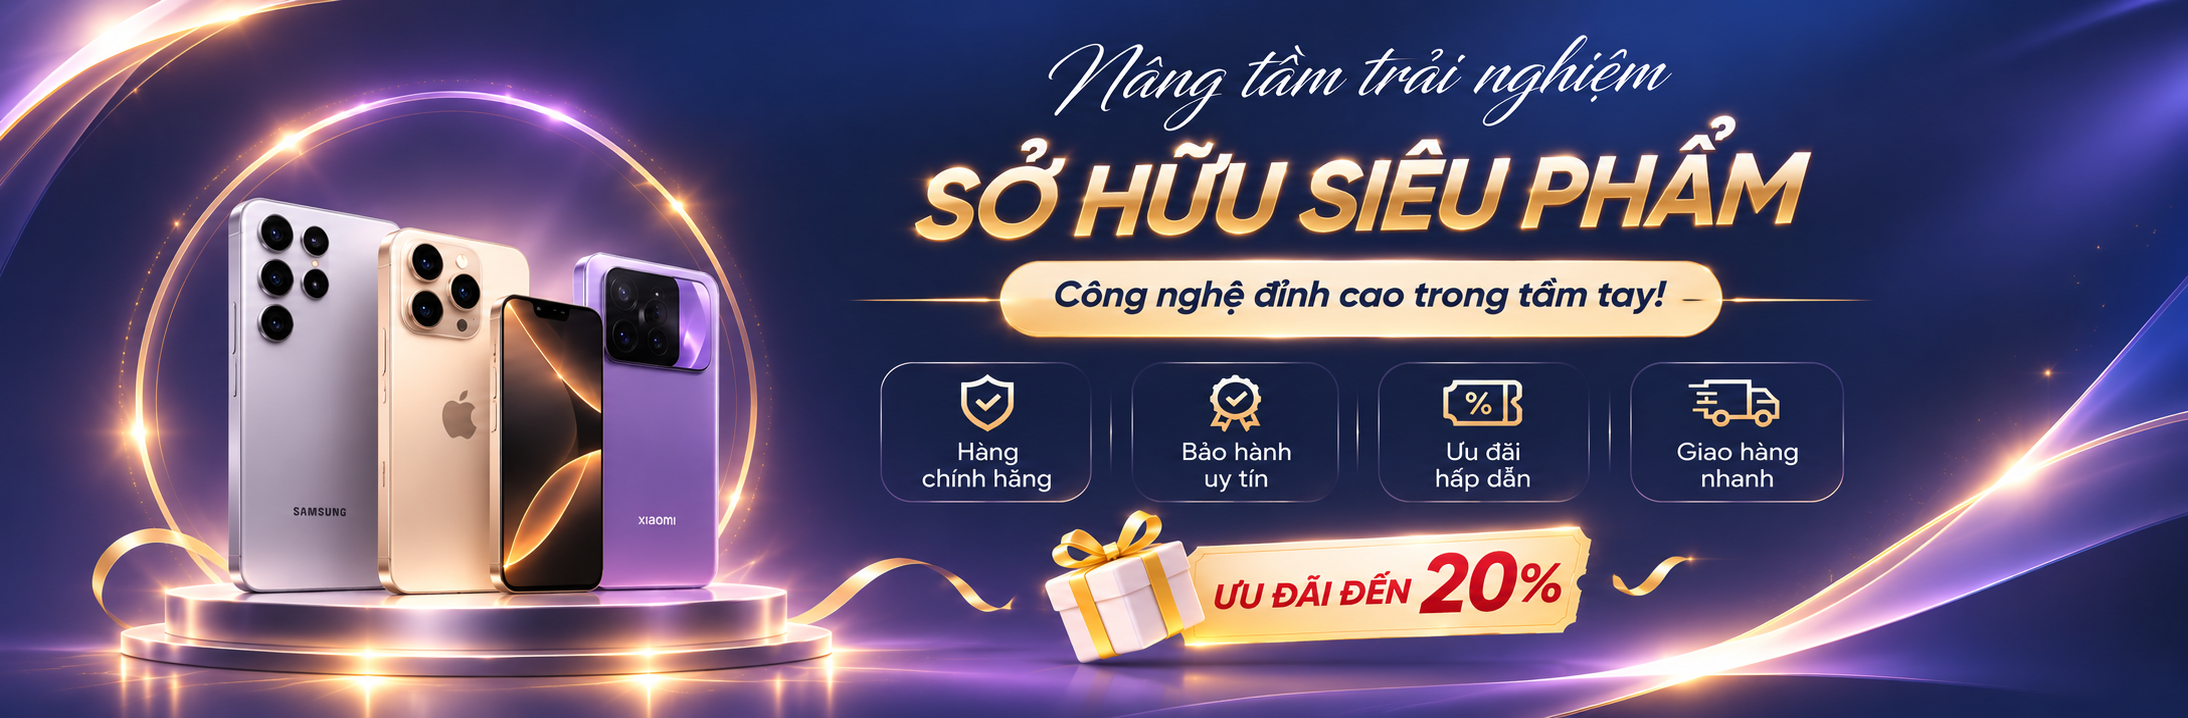
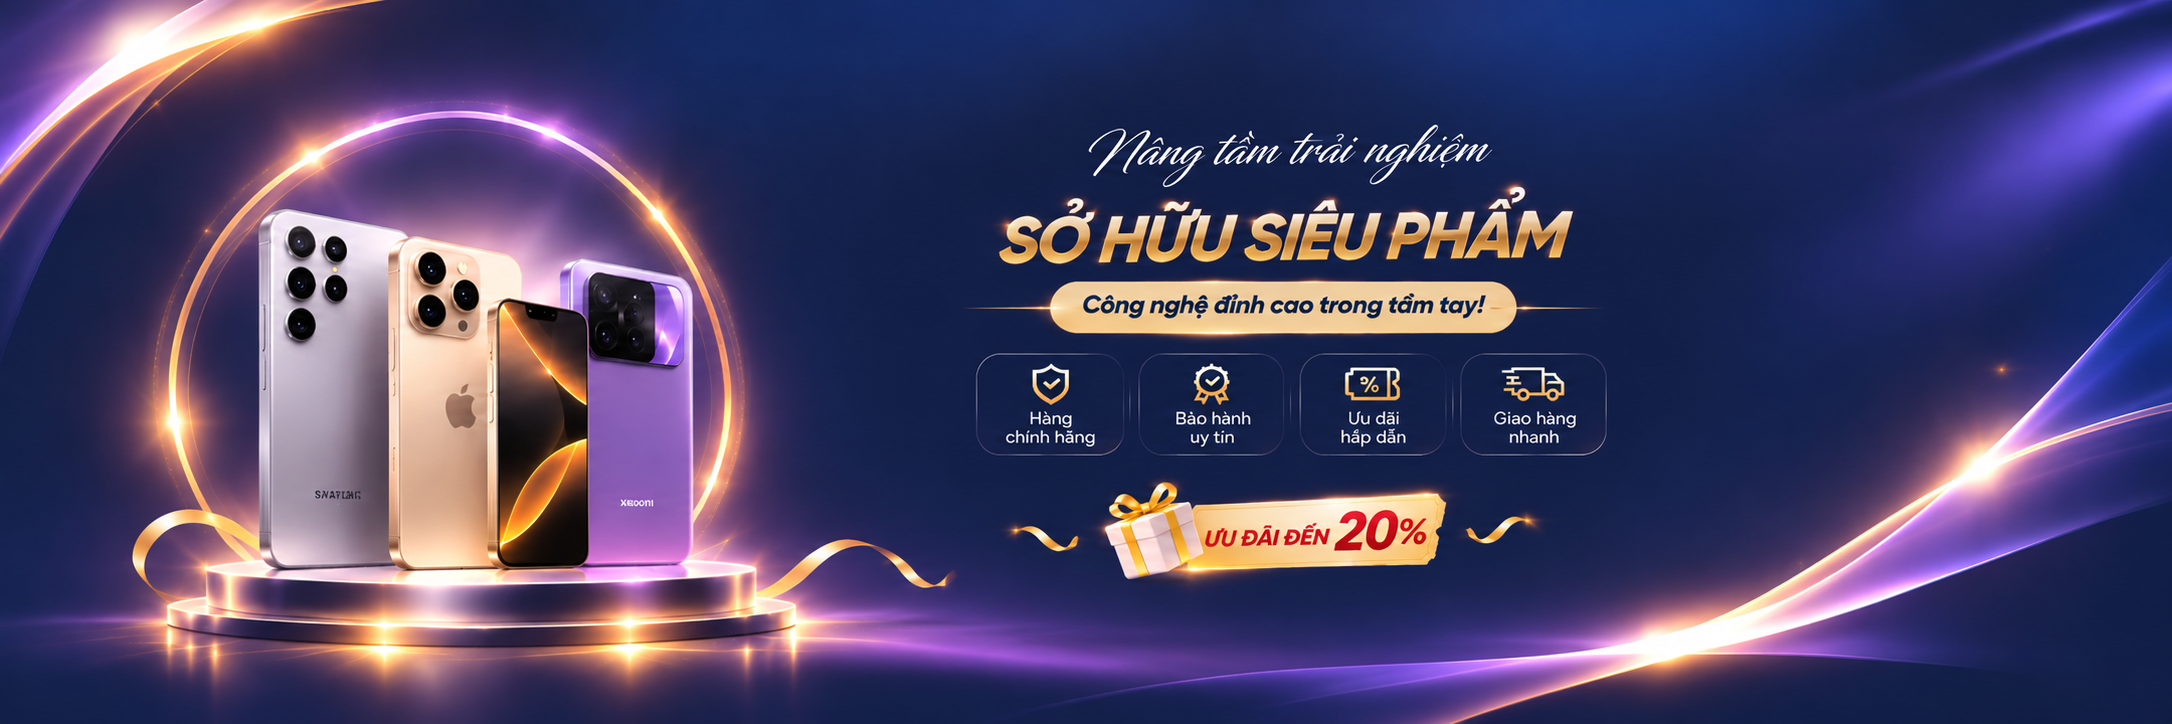
sua

diff --git a/public/inc/top.php b/public/inc/top.php
@@ -18,7 +18,7 @@ if(isset($_SESSION["khachhang"])){
         <meta name="viewport" content="width=device-width, initial-scale=1">
         <link href="https://cdn.jsdelivr.net/npm/bootstrap@5.3.1/dist/css/bootstrap.min.css" rel="stylesheet">
         <script src="https://cdn.jsdelivr.net/npm/bootstrap@5.3.1/dist/js/bootstrap.bundle.min.js"></script>
-        <title>Văn phòng phẩm AGU</title>
+        <title>Cửa hàng điện thoại</title>
 
         <!-- Bootstrap icons-->
         <link href="https://cdn.jsdelivr.net/npm/bootstrap-icons@1.5.0/font/bootstrap-icons.css" rel="stylesheet" />

diff --git a/public/main.php b/public/main.php
@@ -18,8 +18,8 @@ html {
     scroll-margin-top: 80px;
 }
 .banner-quang-cao .banner-img {
-    height: 300px;
-    max-height: 300px;
+    height: 270px;
+    max-height: 270px;
     object-fit: cover;
     object-position: center;
 }
